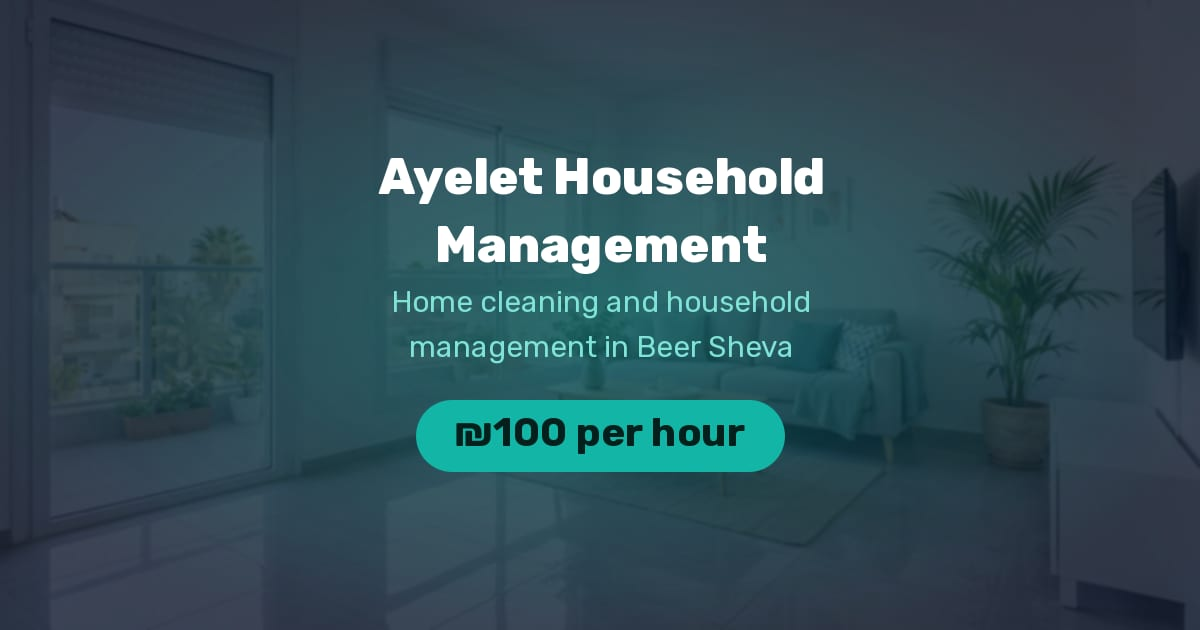
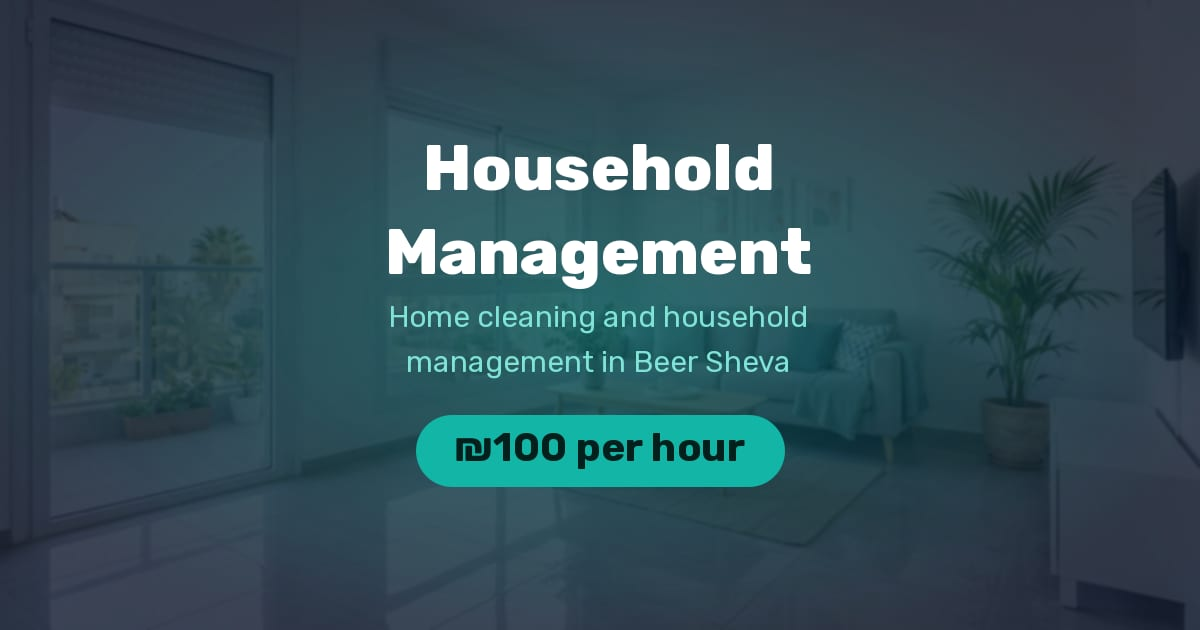
Rename to ניהול משקי בית, take the owner's name off the site and change the phone to 055-666-7777

Changed region(s): [[0.3083, 0.3619, 0.6783, 0.6032], [0.3392, 0.6333, 0.6783, 0.7841], [0.3083, 0.2111, 0.7092, 0.3317]]

diff --git a/docs/SITE.md b/docs/SITE.md
@@ -1,6 +1,6 @@
 # Site record: ayelethome.co.il
 
-The record of Ayelet's site: the business, the accounts and services it runs on, every decision about it, how to run it, and how it was checked at launch. Everything general (how the template works, the data fields, the tests) is in the other docs; this file holds only what is specific to this site. Keep it up to date whenever something here changes.
+The record of this site: the business, the accounts and services it runs on, every decision about it, how to run it, and how it was checked at launch. Everything general (how the template works, the data fields, the tests) is in the other docs; this file holds only what is specific to this site. Keep it up to date whenever something here changes.
 
 Start with [`CLAUDE.md`](../CLAUDE.md) for how the work is done, then read this file.
 
@@ -8,13 +8,13 @@ Start with [`CLAUDE.md`](../CLAUDE.md) for how the work is done, then read this 
 
 | | |
 |---|---|
-| Business | **איילת ניהול משקי בית**: home cleaning, tidying and household management (laundry, ironing, bedding, dishes, whatever the household needs) |
-| Owner | Ayelet (first name only on the site). Pini runs the site for her and relays her approvals. |
+| Business | **ניהול משקי בית**: home cleaning, tidying and household management (laundry, ironing, bedding, dishes, whatever the household needs) |
+| Owner | The business owner. **Her name is not on the site** (Pini, 2026-10-25): the business name stands in for it on the contact card and the signature under the about text. Pini runs the site for her and relays her approvals. |
 | Area | All of Beer Sheva, no other towns |
 | Live site | https://ayelethome.co.il (Hebrew `/`, English `/en/`, Russian `/ru/`) |
 | Repo | [github.com/pinilalush/ayelethome.co.il](https://github.com/pinilalush/ayelethome.co.il), public, created from [`landing-template`](https://github.com/pinilalush/landing-template) with a `template` remote |
 | Launched | 2026-10-06 (built 2026-10-05 to 2026-10-06) |
-| Names | he "איילת ניהול משקי בית" · en "Ayelet Household Management" · ru "Айелет — порядок в доме" |
+| Names | he "ניהול משקי בית" · en "Household Management" · ru "Порядок в доме" (Pini, 2026-10-25) |
 
 ## Where the facts live
 
@@ -22,7 +22,7 @@ The data files are the source of truth; this record explains them.
 
 | What | File |
 |---|---|
-| Phone and WhatsApp (`+972556666630`, the same number), prices, work hours, payment methods, default service, phone-estimate services | `src/data/business.json` |
+| Phone and WhatsApp (`+972556667777`, the same number; Pini, 2026-10-25), prices, work hours, payment methods, default service, phone-estimate services | `src/data/business.json` |
 | Languages, theme colors, sections on or off, hero video, Umami ID | `src/data/config.json` |
 | All page text, per language (services, FAQ, booking messages, hours guide, about text) | `src/data/locales/<lang>/content.json` |
 | Titles, descriptions, keywords, share-preview text | `src/data/locales/<lang>/seo.json` |
@@ -31,10 +31,10 @@ The data files are the source of truth; this record explains them.
 
 ## Decisions
 
-All made on 2026-10-05 and 2026-10-06, from Ayelet's questionnaire answers and Pini's decisions. A change to any of these is a decision for Pini (and Ayelet); record it here with the date.
+All made on 2026-10-05 and 2026-10-06, from the owner's questionnaire answers and Pini's decisions, with later changes dated. A change to any of these is a decision for Pini (and the owner); record it here with the date.
 
 **Name and wording**
-- The name is "איילת ניהול משקי בית" (Pini changed "משק בית" to "משקי בית").
+- The name is "ניהול משקי בית" (Pini, 2026-10-25). Don't add the owner's name or the earlier phone number anywhere, in the site or in the docs.
 - The Russian name is short so the header fits on phones.
 - The site describes her work as "ניקיון וניהול משק הבית".
 - She is "אמינה ואחראית", never "דיסקרטית", which can read the wrong way (Pini).
@@ -53,7 +53,7 @@ All made on 2026-10-05 and 2026-10-06, from Ayelet's questionnaire answers and P
 
 **The about section**
 - Pini's wording, in three paragraphs.
-- The picture is **a drawing of Ayelet**, made in Gemini from her own photo and approved by her (`about-illustration.jpg`). The alt text says it's an illustration.
+- The picture is **a drawing of the owner**, made in Gemini from her own photo and approved by her (`about-illustration.jpg`). The alt text says it's an illustration.
 - **Don't put a photo of her on the site or in the repo unless she asks for one.** Never use a realistic AI image.
 
 **Services**
@@ -156,7 +156,7 @@ Before pushing, check what the merge did to the data with `git diff ORIG_HEAD --
 |---|---|---|
 | `hero.jpg`, `hero-mobile.jpg` | A tidy living room behind the hero (wide and portrait) | AI-generated atmosphere images, from the template (`MEDIA-BRIEF.md` §1–2) |
 | `public/media/hero.mp4`, `hero-mobile.mp4` | The hero's background loop (1080p wide; 1080×1920 portrait) | Google Flow, made from the hero photos, looped forward and back, silent |
-| `about-illustration.jpg` | Ayelet, drawn (1200×1500) | Gemini, from her own photo, approved by her |
+| `about-illustration.jpg` | The owner, drawn (1200×1500) | Gemini, from her own photo, approved by her |
 | `area-map.jpg` | Beer Sheva with the city area shaded | `npm run area-map` (OpenStreetMap) |
 | `og-he.jpg`, `og-en.jpg`, `og-ru.jpg` | Link-preview images | Made by every build from the data |
 
